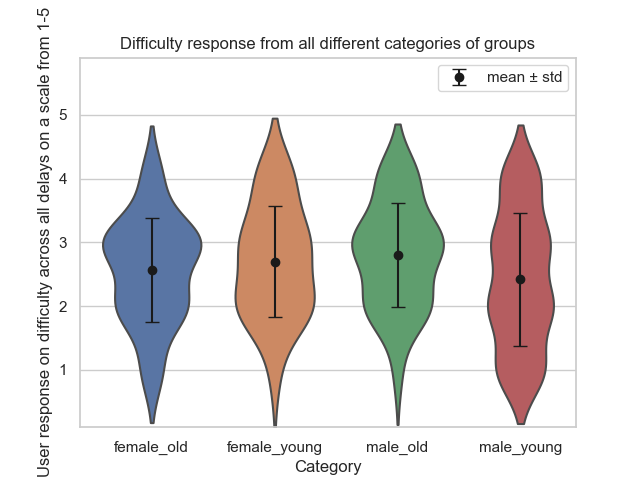
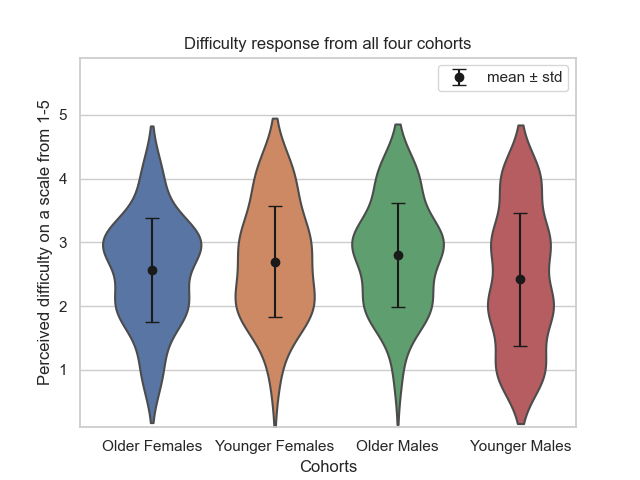
some anova changes
some anova changes

diff --git a/anovatesting/anova.py b/anovatesting/anova.py
@@ -16,6 +16,7 @@ import statsmodels.api as sm
 import statsmodels.formula.api as smf
 from statsmodels.stats.multicomp import pairwise_tukeyhsd, MultiComparison
 from statsmodels.stats.anova import anova_lm
+import scipy.stats as stats
 
 
 saveGraphs = False
@@ -162,7 +163,7 @@ def violingraph(dfs):
 
 
     # optional: provide display labels in the same order
-    display_labels = ['delay', 'Difficulty', 'control', 'part of body']
+    display_labels = ['Older Females', 'Younger Females',  'Older Males', 'Younger Males']
     delay = ['0ms', '50ms', '100ms', '150ms', '200ms']
     #fig, axes = plt.subplots(nrows=1, ncols=5, figsize=(8, 6))
     #axes = axes.flatten()
@@ -181,9 +182,10 @@ def violingraph(dfs):
     sns.set(style="whitegrid")
     # use data=df[selected] — seaborn will create one violin per column in that order
     sns.violinplot(x='Category', y='Value', data=dfs, inner=None)
-    plt.title("Difficulty response from all different categories of groups")
-    plt.ylabel("User response on difficulty across all delays on a scale from 1-5")
-
+    plt.title("Difficulty response from all four cohorts")
+    plt.ylabel("Perceived difficulty on a scale from 1-5")
+    plt.xlabel("Cohorts")
+    plt.xticks(np.arange(4), display_labels)
     x = np.arange(len(means))
     #legend_labels.append('mean ± variance')
     h = plt.errorbar(x, means['Value'], yerr=stds['Value'], fmt='o', color='k', capsize=5, label='mean ± std')
@@ -250,7 +252,7 @@ def twowayanova(df):
                  var_name="delay", value_name="response")           
     model = ols('response ~ C(delay) + C(gender) + C(delay):C(gender)', data=melted).fit()
     anova_result = sm.stats.anova_lm(model, type=2)
-    print("Two way anova results between age, delay for delay response")
+    print("Two way anova results between gender, delay for delay response")
     print(anova_result)
     print()    
     
@@ -270,6 +272,19 @@ def twowayanova(df):
     print("Two way anova results between age, delay for difficulty response")
     print(anova_result)
     
+    
+    melted['genderage'] = (melted['gender'].astype(str) + ":" + np.where(melted['age'] == 24, "young", np.where(melted['age'] == 25, "old", "other"))
+)
+    
+    
+    print("test of genderage categories")
+    print(melted)
+    
+    model = ols('response ~ C(delay) * C(genderage)', data=melted).fit()
+    anova_result = sm.stats.anova_lm(model, type=2)
+    print("Two way anova results between age*gender and  delay for difficulty response")
+    print(anova_result)
+    
     #anova_result.to_excel("Two way anova results between age, delay for difficulty response.xlsx")
     
     
@@ -277,7 +292,6 @@ def twowayanova(df):
     
     
     # Python: compute eta-squared and partial eta-squared for each effect
-    import numpy as np
     ss = {'delay': 6.552941, 'age': 1.535666, 'interaction': 1.685794, 'residual': 146.513834}
     ss_total = ss['delay'] + ss['age'] + ss['interaction'] + ss['residual']
     eta2 = {k: v/ss_total for k,v in ss.items()}
@@ -292,7 +306,6 @@ def twowayanova(df):
     
     
     # assume 'model' is the fitted OLS (smf.ols(...).fit())
-    import scipy.stats as stats
     resid = model.resid
     print("Shapiro-Wilk p:", stats.shapiro(resid).pvalue)
 
@@ -353,6 +366,9 @@ def twowayanova(df):
     }
     
     newdf = pd.DataFrame(data)
+    
+    print("dataframe for graph")
+    print(melted)
     
     violingraph(newdf)
     
